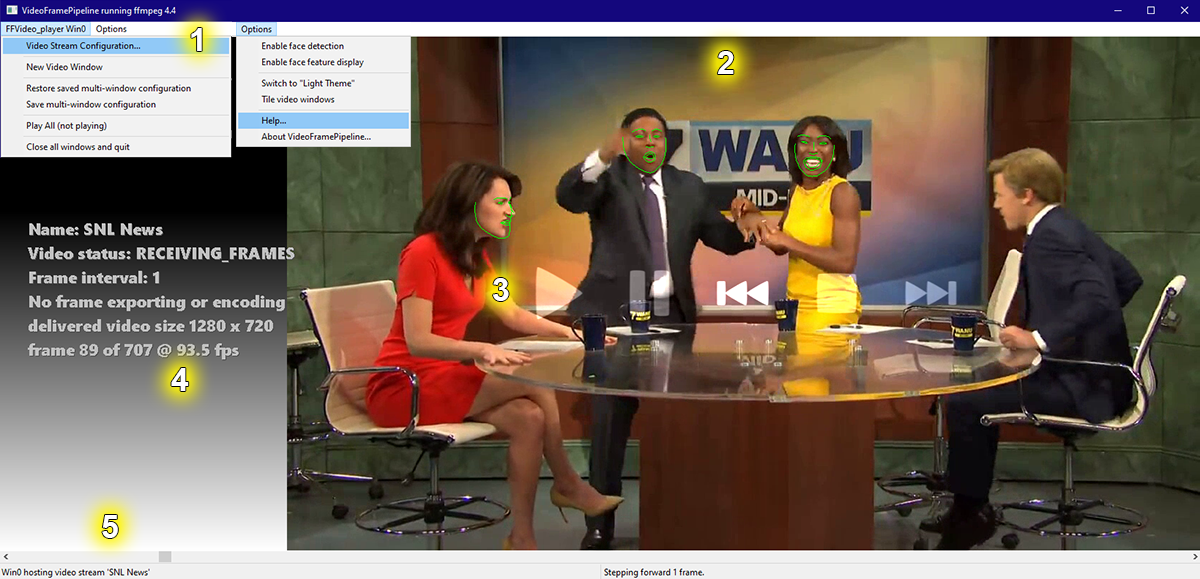
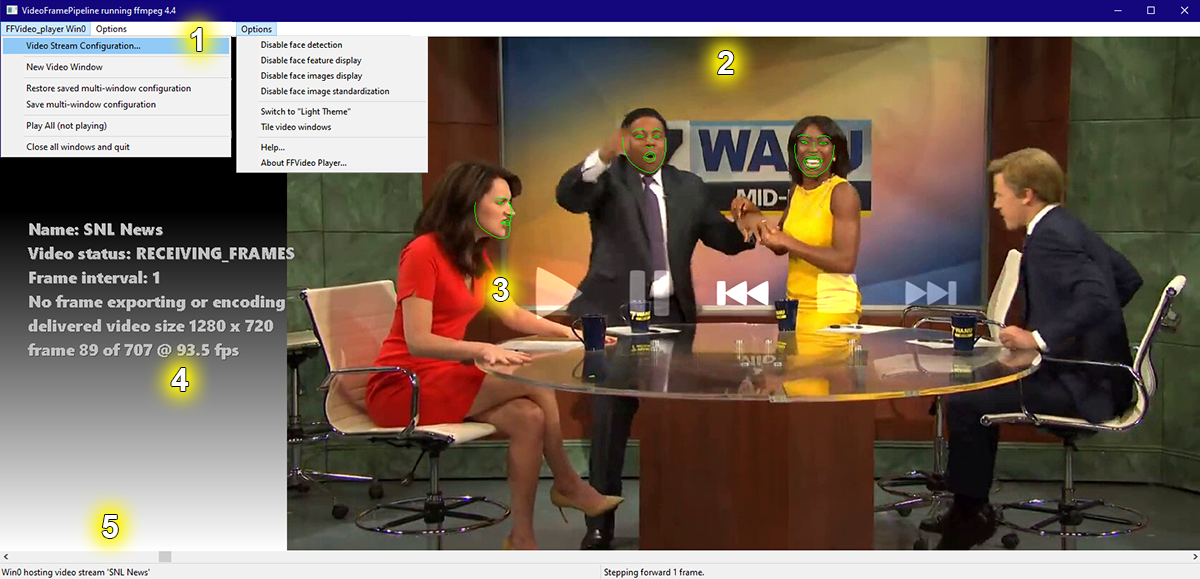
Added standardization of face images recovered from video, updated the help, and removed an incorrectly located GUI directory

Changed region(s): [[0.185, 0.0622, 0.37, 0.3109]]

diff --git a/ffvideo_player_src/FaceDetect.cpp b/ffvideo_player_src/FaceDetect.cpp
@@ -19,6 +19,8 @@ FaceDetector::FaceDetector( TheApp* p_app )
 	// deserialize("c:\\\\dev\\shape_predictor_68_face_landmarks.dat") >> m_sp;
 	deserialize( model_path.c_str() ) >> m_sp;
 
+	m_detect_scale = 0.4f;
+
 	m_image_set = false;
 }
 
@@ -37,10 +39,8 @@ void FaceDetector::SetImage( FFVideo_Image& im )
 	  // reallocate m_dlib_im to same size as passed image:
 		m_dlib_im.set_size( im.m_height, im.m_width );
 
-		// see comment below:
-		float shrink_factor = 0.4f;
-		//
-		m_dlib_real_im.set_size( ((int32_t)(float)im.m_height * shrink_factor + 0.5f), ((int32_t)(float)im.m_width * shrink_factor + 0.5f) );
+		// set size of reduced scale version used for faster processing:
+		m_dlib_real_im.set_size( ((int32_t)(float)im.m_height * m_detect_scale + 0.5f), ((int32_t)(float)im.m_width * m_detect_scale + 0.5f) );
 	}
 
 	// remember in this format, incase we're asked for the face rects later:
@@ -77,30 +77,71 @@ bool FaceDetector::GetFaceBoxes( std::vector<rectangle>& detections )
 }
 
 ////////////////////////////////////////////////////////////////////////
-void FaceDetector::GetFaceImages( std::vector<rectangle>& detections, std::vector<FFVideo_Image>& face_images )
+void FaceDetector::GetFaceImages( std::vector<rectangle>& detections, 
+																	std::vector<full_object_detection>& faceLandmarkSets,
+																	std::vector<FFVideo_Image>& face_images, 
+																	bool full_head_flag )
 {
 	if (m_image_set)
 	{
 		face_images.clear();
-		for (size_t i = 0; i < detections.size(); i++)
+ 
+		if (full_head_flag)
 		{
-			// make copy of video frame:
-			face_images.push_back(m_im);
+			// gives us the details for the entire vector of faceLandMarks:
+			std::vector<dlib::chip_details> dets = get_face_chip_details(faceLandmarkSets, 200, 0.7 );
 
-			// get a reference to the copy:
-			FFVideo_Image& im = face_images.back();
+			// chip_details 
 
-			// get a face detection rect (note, in a scaled space!):
-			rectangle& oneFaceRect = detections[i];
+			// storage for an array of face images in dlib format:
+			dlib::array<array2d<rgb_pixel> > face_chips;
 
-			float left  = (float)oneFaceRect.left() / (float)m_dlib_real_im.nc();			// normalized
-			float right = (float)oneFaceRect.right() / (float)m_dlib_real_im.nc(); 
-			//
-			float bottom = 1.0f - (float)oneFaceRect.bottom() / (float)m_dlib_real_im.nr();
-			float top    = 1.0f - (float)oneFaceRect.top() / (float)m_dlib_real_im.nr();
+			// generates all the sub-images in dlib image format:
+			extract_image_chips(m_dlib_real_im, dets, face_chips);
 
-			// clip our in-vector image to the face rect of that detection:
-			im.ClipToRect( (uint32_t)(left*im.m_width), (uint32_t)(bottom*im.m_height), (uint32_t)(right*im.m_width), (uint32_t)(top*im.m_height) );
+			// convert to FFVideo_Image format:
+			for (size_t i = 0; i < face_chips.size(); i++)
+			{
+				array2d<rgb_pixel>& face_chip = face_chips[i];
+
+				face_images.push_back( FFVideo_Image() );
+				FFVideo_Image& im = face_images.back();
+
+				im.Reallocate( face_chip.nr(), face_chip.nc() );
+				
+				for (uint32_t y = 0; y < im.m_height; y++)
+				{
+					uint32_t iy = im.m_height - y - 1;
+
+					for (uint32_t x = 0; x < im.m_width; x++)
+					{
+						memcpy((void*)im.Pixel(x, y), &face_chip[iy][x], sizeof(uint8_t) * 3); // copy 3 bytes
+					}
+				} 
+			}
+		}
+		else // this version clips the detected face rects as new images directly from the video frame:
+		{
+			for (size_t i = 0; i < detections.size(); i++)
+			{
+				// make copy of video frame:
+				face_images.push_back(m_im);
+
+				// get a reference to the copy:
+				FFVideo_Image& im = face_images.back();
+
+				// get a face detection rect (note, in a scaled space!):
+				rectangle& oneFaceRect = detections[i];
+
+				float left  = (float)oneFaceRect.left() / (float)m_dlib_real_im.nc();			// normalized
+				float right = (float)oneFaceRect.right() / (float)m_dlib_real_im.nc(); 
+				//
+				float bottom = 1.0f - (float)oneFaceRect.bottom() / (float)m_dlib_real_im.nr(); // normalized and y flipped
+				float top    = 1.0f - (float)oneFaceRect.top() / (float)m_dlib_real_im.nr();
+
+				// clip our in-vector image to the face rect of that detection:
+				im.ClipToRect( (uint32_t)(left*im.m_width), (uint32_t)(bottom*im.m_height), (uint32_t)(right*im.m_width), (uint32_t)(top*im.m_height) );
+			}
 		}
 	}
 }
@@ -263,18 +304,18 @@ void FaceDetectionThreadMgr::FrameProcessingLoop(void)
 					if (m_stop_frame_processing_loop)
 						break;
 
-					if (m_faceImagesEnabled)
+					if (m_faceFeaturesEnabled)
 					{
-						mp_faceDetector->GetFaceImages( fdf.m_detections, fdf.m_facesImages );
+						mp_faceDetector->GetFaceLandmarkSets( fdf.m_detections, fdf.m_facesLandmarkSets );
 					}
 
 					// this work is time consuming, so check if we're supposed to quit: 
 					if (m_stop_frame_processing_loop)
 						break;
 
-					if (m_faceFeaturesEnabled)
+					if (m_faceImagesEnabled)
 					{
-						mp_faceDetector->GetFaceLandmarkSets( fdf.m_detections, fdf.m_facesLandmarkSets );
+						mp_faceDetector->GetFaceImages( fdf.m_detections, fdf.m_facesLandmarkSets, fdf.m_facesImages, m_faceImagesStandardized );
 					}
 				}
 						

diff --git a/ffvideo_player_src/VideoWindow.cpp b/ffvideo_player_src/VideoWindow.cpp
@@ -57,6 +57,7 @@ const long ID_ABOUT_MENU = wxNewId();
 const long ID_ENABLE_FACE_DETECTION_MENU = wxNewId();
 const long ID_ENABLE_FACE_FEATURE_DISPLAY_MENU = wxNewId();
 const long ID_ENABLE_FACE_IMAGES_DISPLAY_MENU = wxNewId();
+const long ID_ENABLE_FACE_IMAGE_STANDARDIZATION_MENU = wxNewId();
 
 const long ID_TOGGLE_THEME_MENU = wxNewId();
 const long ID_TILE_WINDOWS_MENU = wxNewId();
@@ -145,6 +146,8 @@ VideoWindow::VideoWindow(TheApp* app, int32_t id)
 	//
 	mp_faceImagesItem = mp_optionsMenu->Append(ID_ENABLE_FACE_IMAGES_DISPLAY_MENU, "Enable face images display");
 	//
+	mp_faceImagesStandarizedItem = mp_optionsMenu->Append(ID_ENABLE_FACE_IMAGE_STANDARDIZATION_MENU, "Enable face image standardization");
+	//
 	mp_optionsMenu->AppendSeparator();
 	//
 	mp_themeItem = mp_optionsMenu->Append(ID_TOGGLE_THEME_MENU, "Switch to \"Light Theme\"");
@@ -184,6 +187,7 @@ VideoWindow::VideoWindow(TheApp* app, int32_t id)
 	Connect(ID_ENABLE_FACE_DETECTION_MENU, wxEVT_COMMAND_MENU_SELECTED, (wxObjectEventFunction)&VideoWindow::OnToggleFaceDetection);
 	Connect(ID_ENABLE_FACE_FEATURE_DISPLAY_MENU, wxEVT_COMMAND_MENU_SELECTED, (wxObjectEventFunction)&VideoWindow::OnToggleFaceFeatures);
 	Connect(ID_ENABLE_FACE_IMAGES_DISPLAY_MENU, wxEVT_COMMAND_MENU_SELECTED, (wxObjectEventFunction)&VideoWindow::OnToggleFaceImages);
+	Connect(ID_ENABLE_FACE_IMAGE_STANDARDIZATION_MENU, wxEVT_COMMAND_MENU_SELECTED, (wxObjectEventFunction)&VideoWindow::OnToggleFaceImageStandarization);
 	
 
 	Connect(ID_TOGGLE_THEME_MENU, wxEVT_COMMAND_MENU_SELECTED, (wxObjectEventFunction)&VideoWindow::OnToggleTheme);
@@ -1070,7 +1074,7 @@ void VideoWindow::OnAbout(wxCommandEvent& WXUNUSED(event))
 
 	wxAboutDialogInfo info;
 	info.SetName(_("FFVideo"));
-	info.SetVersion(_("0.91 Beta"));
+	info.SetVersion(_("0.92 Beta, July 28, 2021"));
 
 	wxString desc( "\nThis program is a series of things:\n\n" );
 	desc += "* a video player supporting IP video, USB Camera and Media File sourced video,\n";
@@ -1166,6 +1170,36 @@ void VideoWindow::OnToggleFaceImages(wxCommandEvent& WXUNUSED(event))
 			msg = "Enable face images display";
 		}
 		mp_faceImagesItem->SetItemLabel(msg);
+	}
+}
+
+////////////////////////////////////////////////////////////////////////
+void VideoWindow::OnToggleFaceImageStandarization(wxCommandEvent& WXUNUSED(event))
+{
+	if (m_terminating)
+		return;
+
+	mp_renderCanvas->EnableFaceImageStandardization( !mp_renderCanvas->IsFaceImagesStandardized() );
+
+	if (mp_faceImagesStandarizedItem)
+	{
+		wxString msg;
+		if (mp_renderCanvas->IsFaceImagesEnabled())
+		{
+			msg = "Disable face image standardization";
+		}
+		else
+		{
+			msg = "Enable face image standardization";
+
+			// this requires face landmarks, so enable them if not already enabled: 
+			if (mp_renderCanvas->IsFaceLandmarksEnabled() == false)
+			{
+				wxCommandEvent dummy;
+				OnToggleFaceFeatures( dummy );
+			}
+		}
+		mp_faceImagesStandarizedItem->SetItemLabel(msg);
 	}
 }
 

diff --git a/ffvideo_player_src/FaceDetect.h b/ffvideo_player_src/FaceDetect.h
@@ -22,10 +22,14 @@ public:
 
 	bool GetFaceBoxes( std::vector<dlib::rectangle>& detections );
 
-	void GetFaceImages( std::vector<dlib::rectangle>& detections, std::vector<FFVideo_Image>& face_images );
+	void GetFaceImages( std::vector<dlib::rectangle>& detections, 
+											std::vector<dlib::full_object_detection>& faceLandmarkSets,
+											std::vector<FFVideo_Image>& face_images,
+											bool full_head_flag = false );
 
 	bool GetFaceLandmarkSets( std::vector<dlib::rectangle>& detections, 
 	                          std::vector<dlib::full_object_detection>& faceLandmarkSets );
+
 	void GetLandmarks( dlib::full_object_detection& oneFace_landmarkSet,
 										 std::vector<FF_Vector2D>& jawline,
 										 std::vector<FF_Vector2D>& rtBrow,
@@ -42,10 +46,12 @@ private:
 	dlib::frontal_face_detector			m_detector;
 	dlib::shape_predictor						m_sp;
 
-	FFVideo_Image										m_im;
+	FFVideo_Image										m_im;							// video frame as delivered by ffmpeg
 	bool									          m_image_set;
-	dlib::array2d<dlib::rgb_pixel>  m_dlib_im;
-	dlib::array2d<dlib::rgb_pixel>  m_dlib_real_im;
+
+	float														m_detect_scale;		// normalized size factor between the two below
+	dlib::array2d<dlib::rgb_pixel>  m_dlib_im;				// is same w,h as m_im
+	dlib::array2d<dlib::rgb_pixel>  m_dlib_real_im;		// scaled smaller to speed up detections
 };
 
 
@@ -97,7 +103,7 @@ public:
 	  mp_frameProcessingThread(NULL), m_stop_frame_processing_loop(false), 
 		m_frame_processing_loop_ended(false), mp_frame_cb(NULL), mp_frame_object(NULL),
 		mp_faceDetector(NULL), m_faceDetectorInitialized(false), m_faceDetectorEnabled(false),
-		m_faceFeaturesEnabled(false), m_faceImagesEnabled(false) {};
+		m_faceFeaturesEnabled(false), m_faceImagesEnabled(false), m_faceImagesStandardized(false) {};
 
 	// 2nd required for for thread constructor
 	FaceDetectionThreadMgr(const FFVideo_FrameExporter& obj) {}
@@ -193,6 +199,7 @@ public:
 	bool																			m_faceDetectorEnabled;
 	bool																			m_faceFeaturesEnabled;
 	bool																			m_faceImagesEnabled;
+	bool																			m_faceImagesStandardized;
 
 	mutable std::shared_mutex									m_queue_lock;
 	std::queue<FaceDetectionFrame>						m_frameQue;

diff --git a/ffvideo_player_src/HelpWindow.cpp b/ffvideo_player_src/HelpWindow.cpp
@@ -142,10 +142,16 @@ void HelpWindow::BuildFeatureBullets( void )
 			The <B>Options</B> pull down menu has these options:</br>
 			<UL>
 				<LI>
-					<B>Enable/Disable Face Detection</B> toggles the demo <i>video experiment</i>
+					<B>Enable/Disable Face Detection</B> toggles use of <i>Dlib based <b>Face Detection</b></i>
 				</LI>
 				<LI>
-					<B>Enable/Disable Face Feature Display</B> toggles a feature of the demo <i>video experiment</i>
+					<B>Enable/Disable Face Feature Display</B> toggles <i>Dlib based <b>Face Feature Recovery</b></i>
+				</LI>
+				<LI>
+					<B>Enable/Disable Face Image Display</B> toggles display of <i>Detected Faces</i> in the <b>Video Windo0w</b> lower left corner
+				</LI>
+				<LI>
+					<B>Enable/Disable Face Image Standardization</B> toggles attempting to make each <i>Face Image appear in Standard Passport Format</i>
 				</LI>
 				<LI>
 					<B>Light/Dark Theme</B> switching, just changes the gradient on the <B>Video Window's</B> left side

diff --git a/ffvideo_player_src/VideoWindow.h b/ffvideo_player_src/VideoWindow.h
@@ -65,6 +65,7 @@ public:
 	wxMenuItem*					mp_faceDetectItem;
 	wxMenuItem*					mp_faceFeaturesItem;
 	wxMenuItem*					mp_faceImagesItem;
+	wxMenuItem*					mp_faceImagesStandarizedItem;
 
 	wxMenuItem*					mp_themeItem;
 	wxMenuItem*					mp_tileWindowsItem;
@@ -124,6 +125,7 @@ public:
 	void OnToggleFaceDetection(wxCommandEvent& event);
 	void OnToggleFaceFeatures(wxCommandEvent& event);
 	void OnToggleFaceImages(wxCommandEvent& event);
+	void OnToggleFaceImageStandarization(wxCommandEvent& event);
 
 	void OnToggleTheme(wxCommandEvent& event);
 	void OnTileWindows(wxCommandEvent& event);

diff --git a/ffvideo_player_src/RenderCanvas.h b/ffvideo_player_src/RenderCanvas.h
@@ -159,9 +159,11 @@ public:
 	bool IsFaceDetectionEnabled( void ) { return m_faceDetectMgr.m_faceDetectorEnabled; }
 	bool IsFaceLandmarksEnabled( void ) { return m_faceDetectMgr.m_faceFeaturesEnabled; }
 	bool IsFaceImagesEnabled( void ) { return m_faceDetectMgr.m_faceImagesEnabled; }
+	bool IsFaceImagesStandardized( void ) { return m_faceDetectMgr.m_faceImagesStandardized; }
 	bool EnableFaceDetection( bool enable );
 	bool EnableFaceLandmarks( bool enable );
 	bool EnableFaceImages( bool enable );
+	bool EnableFaceImageStandardization( bool enable );
 
 	// framebuffer rendering:
 

diff --git a/ffvideo_player_src/RenderCanvas_UICallbacks.cpp b/ffvideo_player_src/RenderCanvas_UICallbacks.cpp
@@ -451,4 +451,17 @@ bool RenderCanvas::EnableFaceImages( bool enable )
 	return true;
 }
 
+///////////////////////////////////////////////////////////////////
+// called by a wxWidgets menu handler in a VideoWindow
+bool RenderCanvas::EnableFaceImageStandardization( bool enable )
+{
+	if (!mp_app) 
+		return false;
+	if (!mp_app->m_we_are_launched || m_terminating)
+		return false;
+
+	m_faceDetectMgr.m_faceImagesStandardized = enable;
+	return true;
+}
+
 
